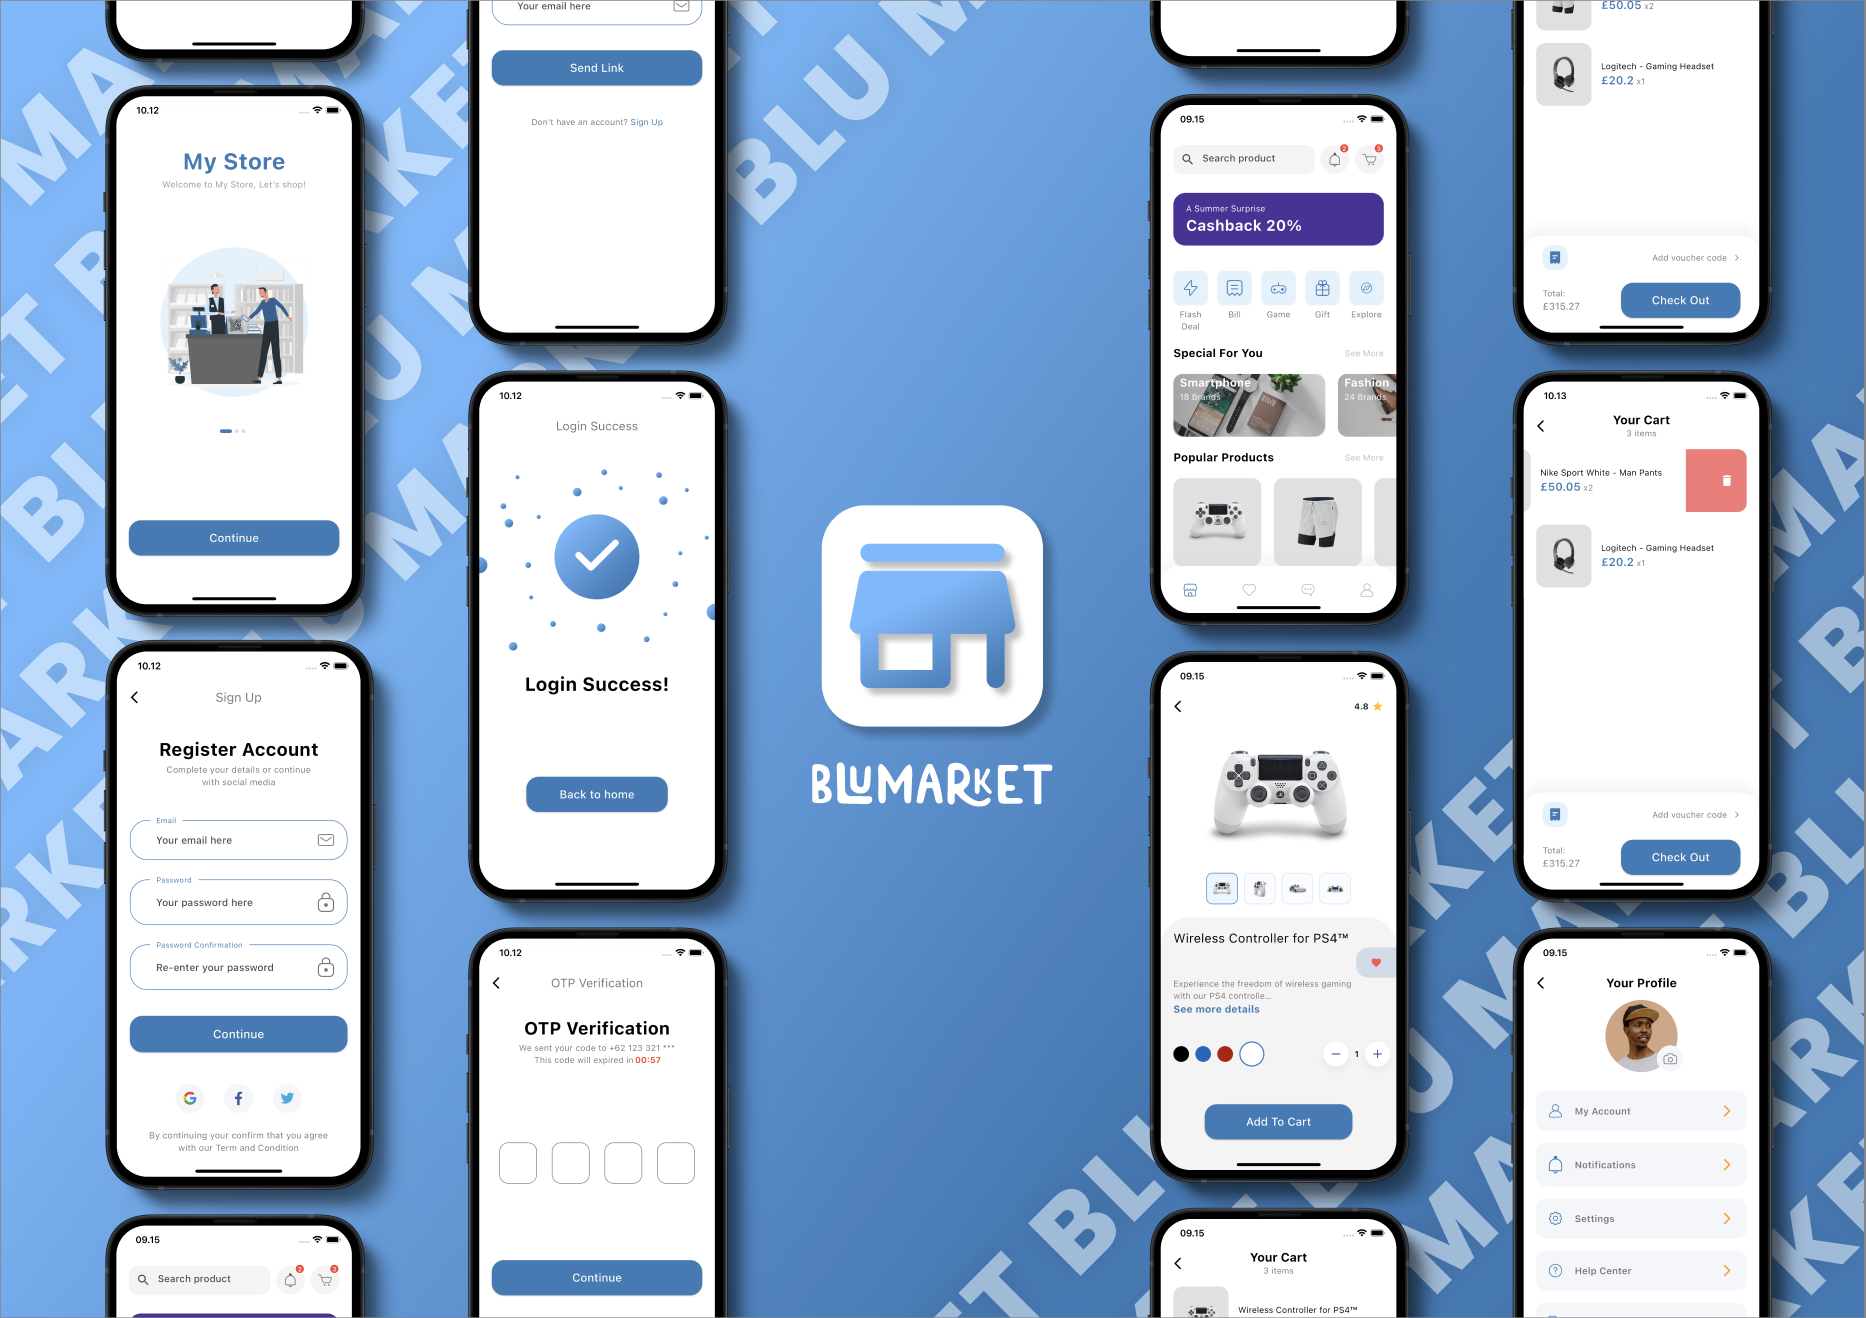
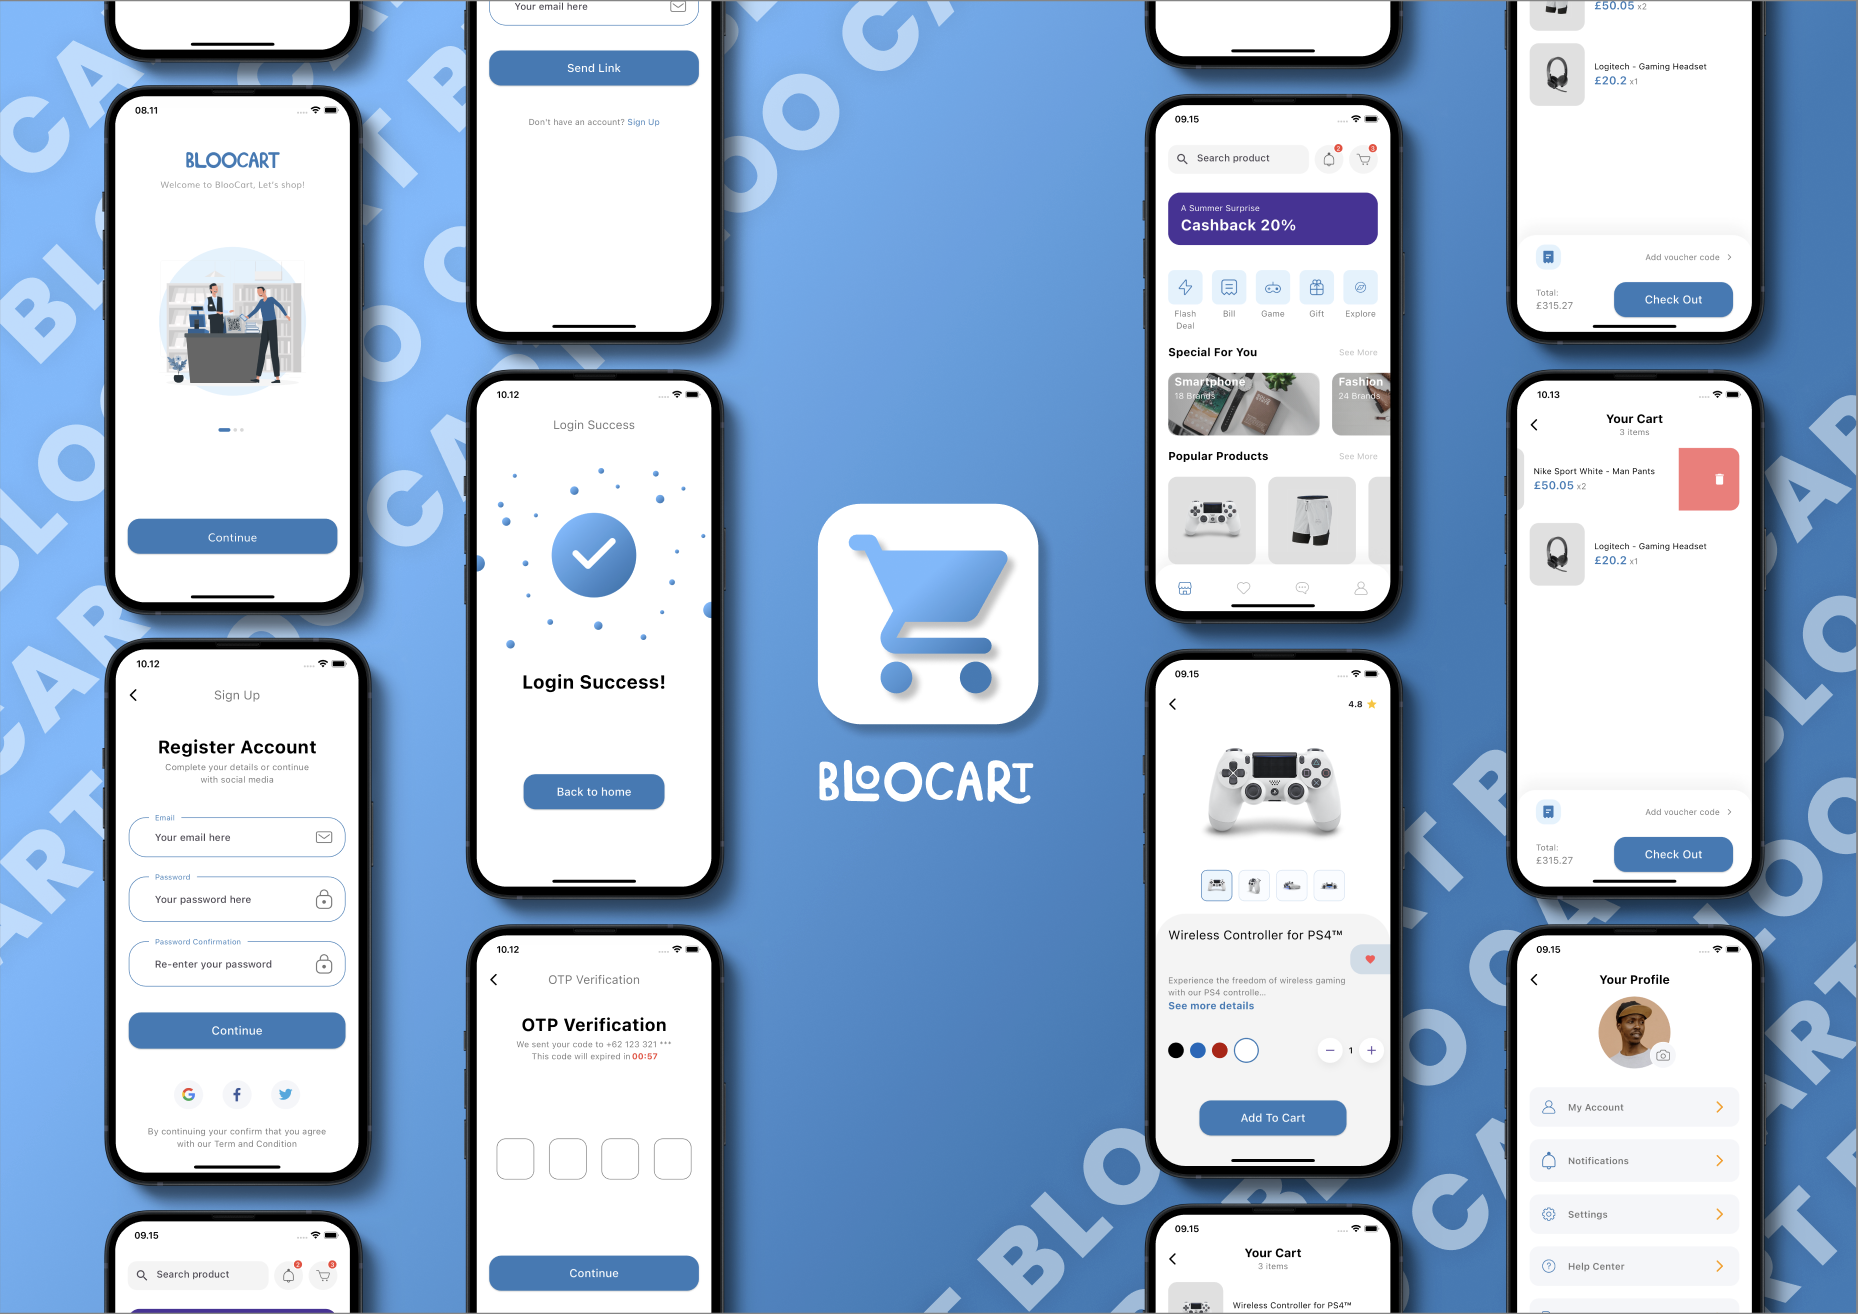
update

diff --git a/lib/screens/splash/components/splash_content.dart b/lib/screens/splash/components/splash_content.dart
@@ -15,7 +15,7 @@ class SplashContent extends StatelessWidget {
       children: [
         const Spacer(),
         Text(
-          'BluMarket',
+          'BlooCart',
           style: TextStyle(
             fontSize: getPropScreenWidth(36),
             color: kPrimaryColor,

diff --git a/lib/model/splash_data.dart b/lib/model/splash_data.dart
@@ -1,6 +1,6 @@
 List<Map<String, String>> splashData = [
     {
-      "text": "Welcome to BluMarket, Let’s shop!",
+      "text": "Welcome to BlooCart, Let’s shop!",
       "image": "assets/images/splash_1.png"
     },
     {

diff --git a/README.md b/README.md
@@ -1,6 +1,6 @@
-# 🛍 BluMarket - E-commerce App
+# 🛍 BlooCart - E-commerce App
 
-Welcome to **BluMarket**, your personalized shopping experience built using Flutter! 🎉 This app brings a wide range of products right to your fingertips, making shopping easy, fun, and accessible. Explore the latest trends, find the best deals, and enjoy a seamless shopping journey with BluMarket.
+Welcome to **BlooCart**, your personalized shopping experience built using Flutter! 🎉 This app brings a wide range of products right to your fingertips, making shopping easy, fun, and accessible. Explore the latest trends, find the best deals, and enjoy a seamless shopping journey with BlooCart.
 
 ## 🛒 What's Inside?
 
@@ -10,9 +10,9 @@ Welcome to **BluMarket**, your personalized shopping experience built using Flut
 - **Cart & Checkout:** A smooth and secure checkout process, allowing you to manage your cart and complete purchases with ease.
 - **Order Tracking:** Keep track of your orders with real-time updates so you always know when your items will arrive.
 
-## 🎯 Why BluMarket?
+## 🎯 Why BlooCart?
 
-Because shopping should be simple, enjoyable, and tailored to your needs! Whether you're looking for the latest fashion, must-have gadgets, or everyday essentials, BluMarket makes it all possible with just a few taps.
+Because shopping should be simple, enjoyable, and tailored to your needs! Whether you're looking for the latest fashion, must-have gadgets, or everyday essentials, BlooCart makes it all possible with just a few taps.
 
 ## 📸 Screenshots
 
